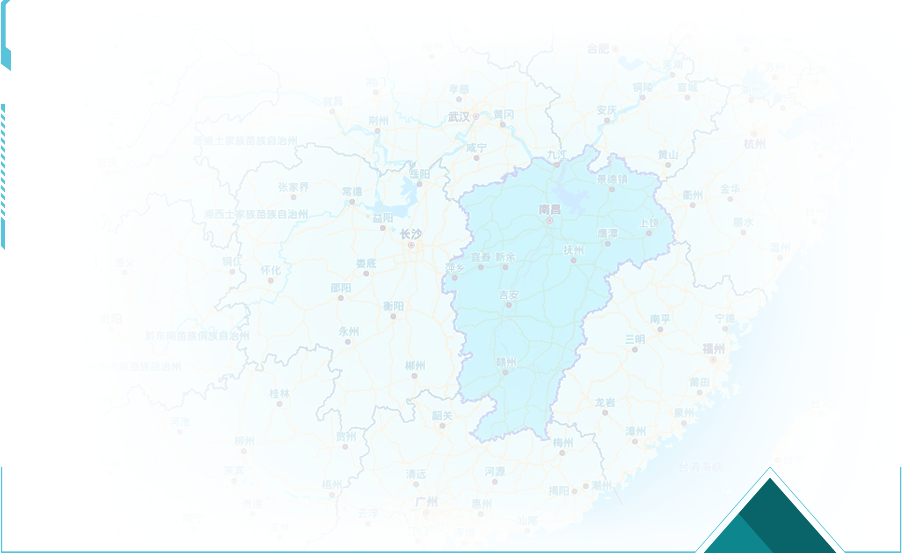
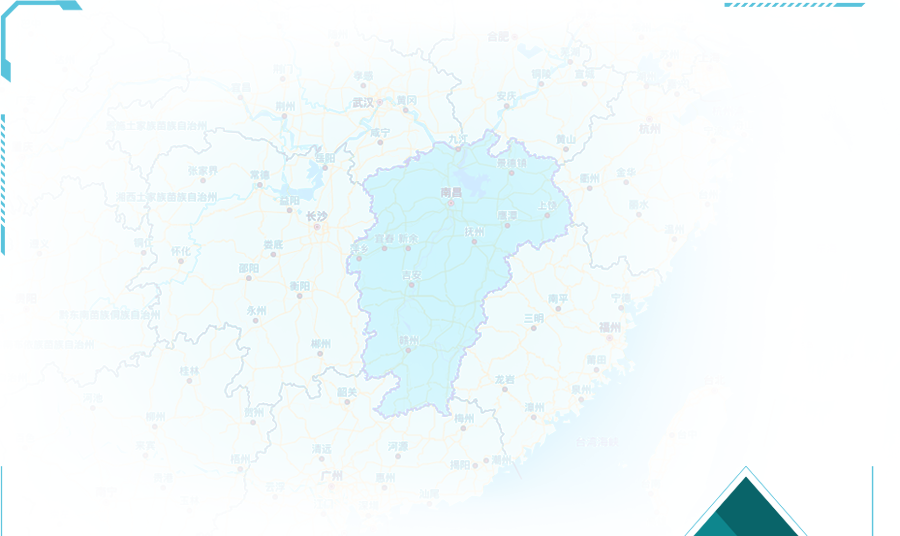
修改

diff --git a/src/view/hospital copy/css/index.css b/src/view/hospital copy/css/index.css
@@ -175,7 +175,7 @@ body{
 }
 #allmap {
 	width:  100%;
-	height: 530px;
+	height: 500px;
 	overflow: hidden;
 }
 
